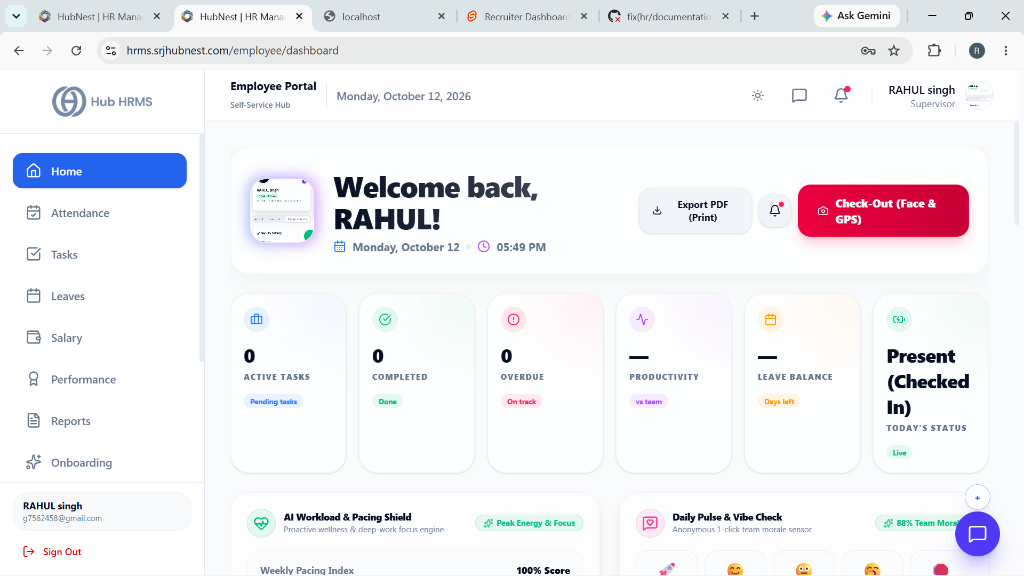
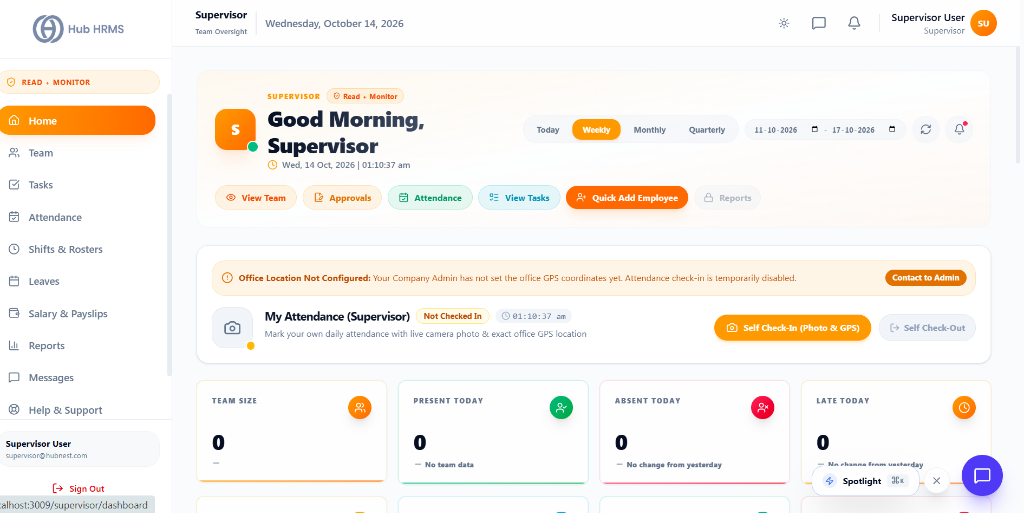
docs(hrms): update supervisor portal with authentic screenshots for dashboard, team, tasks, attendance, and shifts

diff --git a/docs/hrms-supervisor/shifts.md b/docs/hrms-supervisor/shifts.md
@@ -13,9 +13,7 @@ The **Shift Rosters & Rotations** module equips Operations Supervisors with end-
 
 Below is the live console layout of the **Supervisor Shift Roster & Rotation Console**:
 
-> 📸 **[UI Screenshot: Shift Roster Planning & Rotation Console]**  
-> *Target Asset Location:* `docs/assets/images/HRMS/Supervisor_/shifts.png`  
-> *(To be added at the end with live screenshots)*
+![Shift Roster Planning & Rotation Console](../assets/images/HRMS/Supervisor_/shifts.png)
 
 ---
 

diff --git a/docs/hrms-supervisor/team.md b/docs/hrms-supervisor/team.md
@@ -13,9 +13,7 @@ The **Crew & Team Roster** module provides Operations Supervisors with a central
 
 Below is the live console layout of the **Supervisor Team Directory**:
 
-> 📸 **[UI Screenshot: Supervisor Crew & Team Management Console]**  
-> *Target Asset Location:* `docs/assets/images/HRMS/Supervisor_/team.png`  
-> *(To be added at the end with live screenshots)*
+![Supervisor Crew & Team Management Console](../assets/images/HRMS/Supervisor_/team.png)
 
 ---
 
